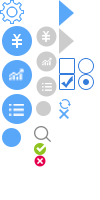
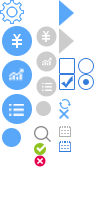
css

Changed region(s): [[0.57, 0.63, 0.72, 0.78]]

diff --git a/steps.html b/steps.html
@@ -105,11 +105,12 @@
                                 <label class="control-label">提示信息</label>
                             </div>
                         </td>
-                        <th class="width-50">有效期</th>
+                        <th class="width-50">有效期1</th>
                         <td>
                             <div class="has-general width-100 floatleft">
                                 <input type="text" class="int" placeholder="">
                                 <label class="control-label">提示信息</label>
+
                             </div>
                             <span class="check checked marl10"><i class="Icon ico-check marr10"></i>长期有效</span>
                         </td>
@@ -253,11 +254,12 @@
                                 <label class="control-label">提示信息</label>
                             </div>
                         </td>
-                        <th class="width-50">有效期</th>
+                        <th class="width-50">有效期2</th>
                         <td class="width-200">
                             <div class="has-general width-80 floatleft">
                                 <input type="text" class="int" placeholder="">
                                 <label class="control-label">提示信息</label>
+                                <a href="javascript:;" class="Icon ico-clander"></a>
                             </div>
                             <span class="check checked"><i class="Icon ico-check marr10"></i>长期有效</span>
                         </td>

diff --git a/css/global.css b/css/global.css
@@ -184,6 +184,8 @@ a.add:hover{text-decoration: underline;}
 .has-general .ico-tip-in{right:5px;}
 .ico-Replace,.ico-del{width:12px;height:10px;background-position:-59px -99px;}
 .ico-del{background-position:-59px -109px;}
+.ico-clander{width:12px;height:11px;background-position:-59px -126px;position: absolute;right:3px;top:8px;z-index:10;}
+.ico-clander:hover{background-position:-59px -141px;}
 /*弹出*/
 .loading{position:fixed;width:160px;height:60px;top:50%;left:50%;margin:-30px 0 0 -80px;line-height: 60px;text-align:center;background: url("../img/mask.png") repeat;border-radius:3px;color:#fff;behavior: url(../css/PIE.htc);}
 .loading img{vertical-align:-6px;width: 23px;margin:0 10px 0 -5px;animation: spin .8s infinite linear;}
